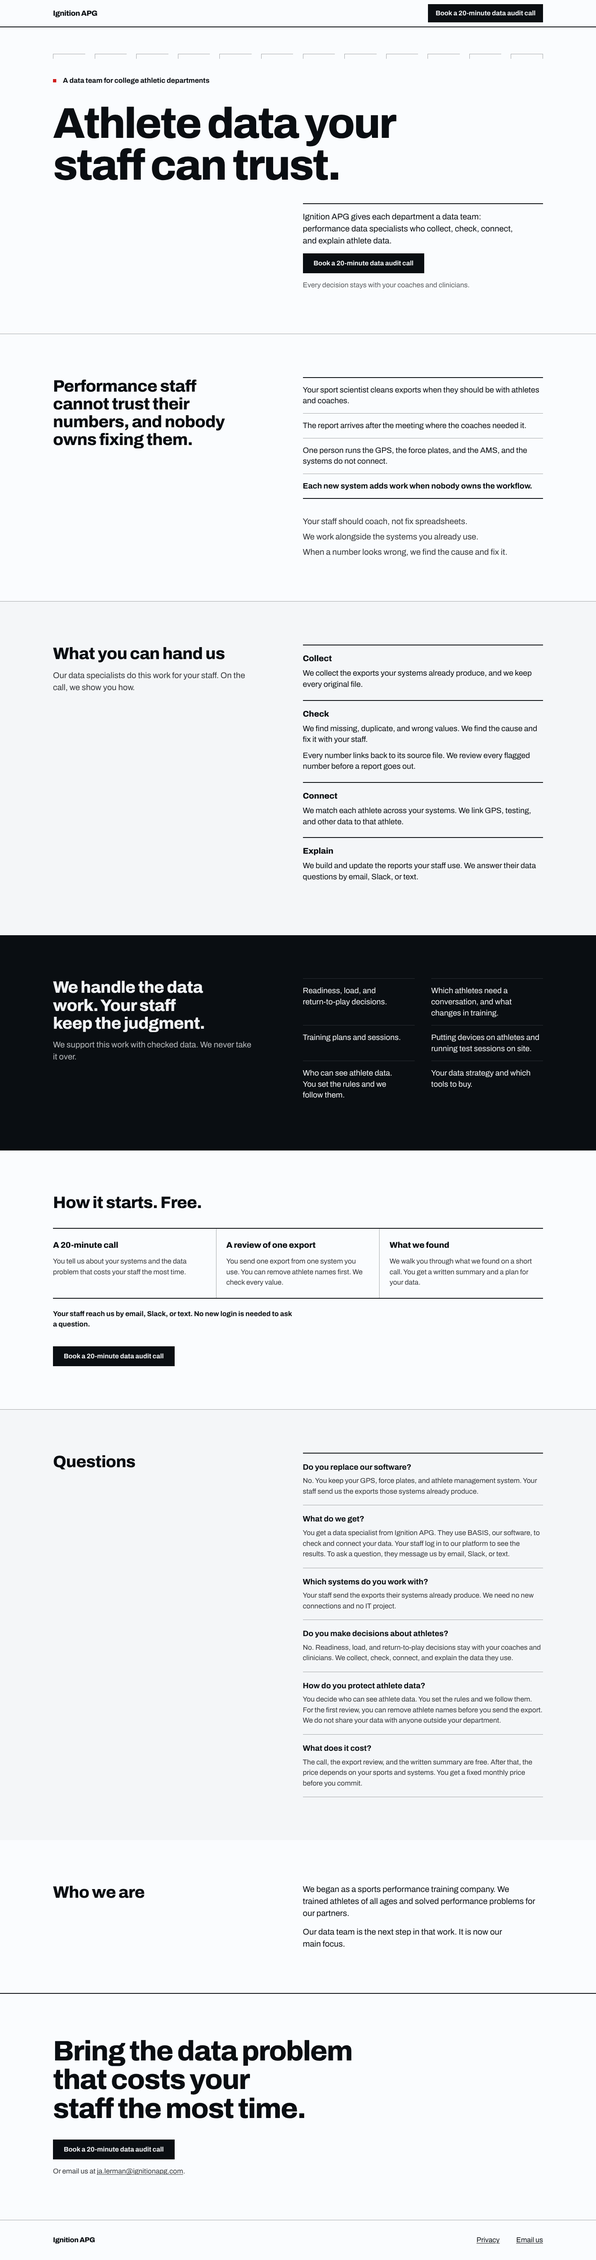
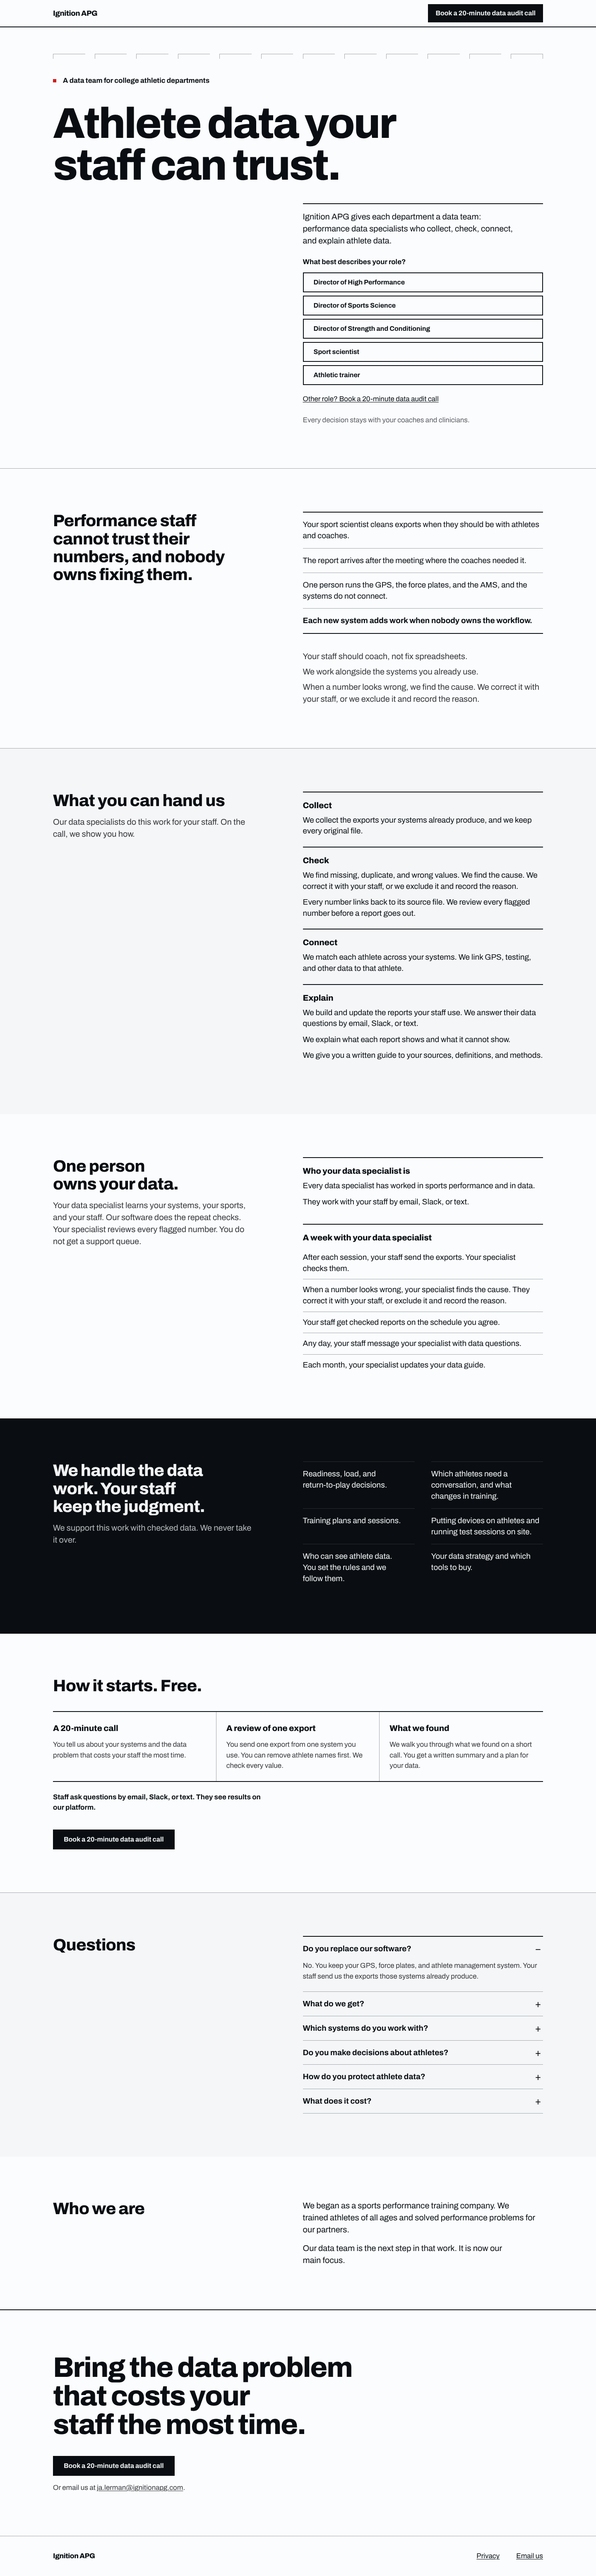
Specialist section, hero role picker, restored Explain items, approved fix wording, collapsible questions
Claude-Session: https://claude.ai/code/session_01X9BRkj4E1FyPfGCiP91Am8

diff --git a/src/content/site.ts b/src/content/site.ts
@@ -23,6 +23,19 @@ export const hero = {
   underButton: "Every decision stays with your coaches and clinicians.",
 };
 
+// Hero role picker (Jake, 2026-10-13). Each role opens Calendly with the role question prefilled (a1).
+export const rolePicker = {
+  prompt: "What best describes your role?",
+  roles: [
+    "Director of High Performance",
+    "Director of Sports Science",
+    "Director of Strength and Conditioning",
+    "Sport scientist",
+    "Athletic trainer",
+  ],
+  otherLink: "Other role? Book a 20-minute data audit call",
+};
+
 export const problem = {
   heading: "Performance staff cannot trust their numbers, and nobody owns fixing them.",
   symptoms: [
@@ -34,7 +47,7 @@ export const problem = {
   departmentMessage: [
     "Your staff should coach, not fix spreadsheets.",
     "We work alongside the systems you already use.",
-    "When a number looks wrong, we find the cause and fix it.",
+    "When a number looks wrong, we find the cause. We correct it with your staff, or we exclude it and record the reason.",
   ],
 };
 
@@ -49,7 +62,7 @@ export const handUs = {
     {
       verb: "Check",
       items: [
-        "We find missing, duplicate, and wrong values. We find the cause and fix it with your staff.",
+        "We find missing, duplicate, and wrong values. We find the cause. We correct it with your staff, or we exclude it and record the reason.",
         "Every number links back to its source file. We review every flagged number before a report goes out.",
       ],
     },
@@ -59,9 +72,36 @@ export const handUs = {
     },
     {
       verb: "Explain",
-      items: ["We build and update the reports your staff use. We answer their data questions by email, Slack, or text."],
+      items: [
+        "We build and update the reports your staff use. We answer their data questions by email, Slack, or text.",
+        "We explain what each report shows and what it cannot show.",
+        "We give you a written guide to your sources, definitions, and methods.",
+      ],
     },
   ],
+};
+
+// Data specialist section (Jake, 2026-10-13). A role, with no name, no photo, and no personal story.
+export const specialist = {
+  heading: "One person owns your data.",
+  text: "Your data specialist learns your systems, your sports, and your staff. Our software does the repeat checks. Your specialist reviews every flagged number. You do not get a support queue.",
+  who: {
+    heading: "Who your data specialist is",
+    items: [
+      "Every data specialist has worked in sports performance and in data.",
+      "They work with your staff by email, Slack, or text.",
+    ],
+  },
+  week: {
+    heading: "A week with your data specialist",
+    items: [
+      "After each session, your staff send the exports. Your specialist checks them.",
+      "When a number looks wrong, your specialist finds the cause. They correct it with your staff, or exclude it and record the reason.",
+      "Your staff get checked reports on the schedule you agree.",
+      "Any day, your staff message your specialist with data questions.",
+      "Each month, your specialist updates your data guide.",
+    ],
+  },
 };
 
 export const staysWithStaff = {

diff --git a/src/styles/global.css b/src/styles/global.css
@@ -69,6 +69,23 @@
   .link--inline { position: relative; }
   .link--inline::after { content: ""; position: absolute; inset: -0.875rem -0.25rem; }
 
+  /* Hero role picker: outlined choices that fill with ink on hover. */
+  .btn--choice { justify-content: flex-start; background: var(--color-paper); color: var(--color-ink); }
+  .btn--choice:hover { background: var(--color-ink); color: var(--color-on-ink); border-color: var(--color-ink); }
+  .btn--choice:active { background: var(--color-neutral); color: var(--color-on-ink); border-color: var(--color-neutral); }
+
+  /* A week with your data specialist: ordered in the HTML, no visible numerals. */
+  .week li { padding-block: 0.75rem; border-bottom: 1px solid var(--color-rule-2); }
+  .week li:last-child { border-bottom: 0; }
+
+  /* Questions: native details, closed on load, plus and minus marker, 56 px rows. */
+  .faq summary { list-style: none; cursor: pointer; display: flex; justify-content: space-between; align-items: center; gap: 1rem; min-height: 3.5rem; padding-block: 1rem; font-weight: 700; font-size: var(--text-item); line-height: 1.35; transition: color 160ms ease; }
+  .faq summary::-webkit-details-marker { display: none; }
+  .faq summary::after { content: "+"; flex: none; width: 1.5rem; text-align: center; font-weight: 400; font-size: 1.5rem; line-height: 1; }
+  .faq details[open] summary::after { content: "\2212"; }
+  .faq summary:hover { color: var(--color-neutral); }
+  .faq summary:active { color: var(--color-muted); }
+
   /* Small red square: the one marker shape on the page. */
   .marker { position: relative; padding-left: 1.5rem; }
   .marker::before { content: ""; position: absolute; left: 0; top: 0.55em; width: 0.5rem; height: 0.5rem; background: var(--color-accent); }

diff --git a/docs/MESSAGE.md b/docs/MESSAGE.md
@@ -1,12 +1,20 @@
 # Message sheet (approved)
 
-Version 4, approved by Jake at gate 1 on 2026-10-12. This is every word on the site, in page order. There is no design yet.
+Version 4, approved by Jake at gate 1 on 2026-10-12. Version 5 adds Jake's review changes of 2026-10-13. This is every word on the site, in page order. There is no design yet.
 
 How to read it:
 
 - The **Copy** column is what visitors will see.
 - Every slot you had to fill is now filled. The only placeholder left is the privacy date, which is set at launch.
 - What is left for you is at the bottom.
+
+## What changed in v5 (Jake, 2026-10-13)
+
+- Hero: a role picker replaces the single button. "What best describes your role?" with five role buttons, then the link "Other role? Book a 20-minute data audit call". Each role button opens Calendly with the role already filled in.
+- New section 3b, "One person owns your data.", about the data specialist. It is a role, with no name, no photo, and no personal story.
+- "Explain" gets back two confirmed items: rows 10 and 12.
+- Fixing wrong numbers now uses the approved wording in both places: "We find the cause. We correct it with your staff, or we exclude it and record the reason." The site never says we "fix" a value. BASIS never edits a value in place.
+- Questions open and close on click or tap. All are closed when the page loads. The answers do not change.
 
 ## What changed in v4
 
@@ -53,8 +61,16 @@ How to read it:
 | Label | A data team for college athletic departments |
 | Heading | Athlete data your staff can trust. |
 | Text | Ignition APG gives each department a data team: performance data specialists who collect, check, connect, and explain athlete data. |
-| Button | Book a 20-minute data audit call |
+| Prompt | What best describes your role? |
+| Role button | Director of High Performance |
+| Role button | Director of Sports Science |
+| Role button | Director of Strength and Conditioning |
+| Role button | Sport scientist |
+| Role button | Athletic trainer |
+| Link | Other role? Book a 20-minute data audit call |
 | Under the button | Every decision stays with your coaches and clinicians. |
+
+Each role button opens Calendly with that role filled in. The "Other role?" link opens Calendly with no role filled in. Setup: `docs/BOOKING.md`, "Role prefill".
 
 ## 2. The problem
 
@@ -65,7 +81,7 @@ How to read it:
 | Symptom 2 | The report arrives after the meeting where the coaches needed it. |
 | Symptom 3 | One person runs the GPS, the force plates, and the AMS, and the systems do not connect. |
 | Closing line | Each new system adds work when nobody owns the workflow. |
-| Department message | Your staff should coach, not fix spreadsheets. We work alongside the systems you already use. When a number looks wrong, we find the cause and fix it. |
+| Department message | Your staff should coach, not fix spreadsheets. We work alongside the systems you already use. When a number looks wrong, we find the cause. We correct it with your staff, or we exclude it and record the reason. |
 
 The symptoms appear as plain lines, with no names and no quote marks. That way they read as the problem, not as testimonials. The department message turns the page from the problem to the offer.
 
@@ -78,12 +94,32 @@ The symptoms appear as plain lines, with no names and no quote marks. That way t
 | Group | Collect |
 | Item | We collect the exports your systems already produce, and we keep every original file. |
 | Group | Check |
-| Item | We find missing, duplicate, and wrong values. We find the cause and fix it with your staff. |
+| Item | We find missing, duplicate, and wrong values. We find the cause. We correct it with your staff, or we exclude it and record the reason. |
 | Item | Every number links back to its source file. We review every flagged number before a report goes out. |
 | Group | Connect |
 | Item | We match each athlete across your systems. We link GPS, testing, and other data to that athlete. |
 | Group | Explain |
 | Item | We build and update the reports your staff use. We answer their data questions by email, Slack, or text. |
+| Item | We explain what each report shows and what it cannot show. |
+| Item | We give you a written guide to your sources, definitions, and methods. |
+
+## 3b. Your data specialist (Jake, 2026-10-13)
+
+| Element | Copy |
+|---|---|
+| Heading | One person owns your data. |
+| Text | Your data specialist learns your systems, your sports, and your staff. Our software does the repeat checks. Your specialist reviews every flagged number. You do not get a support queue. |
+| Subheading | Who your data specialist is |
+| Point | Every data specialist has worked in sports performance and in data. |
+| Point | They work with your staff by email, Slack, or text. |
+| Subheading | A week with your data specialist |
+| Week item | After each session, your staff send the exports. Your specialist checks them. |
+| Week item | When a number looks wrong, your specialist finds the cause. They correct it with your staff, or exclude it and record the reason. |
+| Week item | Your staff get checked reports on the schedule you agree. |
+| Week item | Any day, your staff message your specialist with data questions. |
+| Week item | Each month, your specialist updates your data guide. |
+
+A role, not a person: no name, no photo, no avatar, no icon. The week is an ordered list with no visible numbers.
 
 ## 4. What stays with your staff
 
@@ -133,7 +169,7 @@ None of these steps cost money. Step 3 makes no time promise, so "20-minute" sta
 | Question | What does it cost? |
 | Answer | The call, the export review, and the written summary are free. After that, the price depends on your sports and systems. You get a fixed monthly price before you commit. |
 
-All six answers are yours or approved by you. None names a compliance standard.
+All six answers are yours or approved by you. None names a compliance standard. Since 2026-10-13 each question opens and closes on click or tap, and all are closed when the page loads.
 
 ## 7. Who we are
 
@@ -212,10 +248,12 @@ This is for you, not for the page. Row numbers follow the table in `docs/BRIEF.m
 | Group | Line on the page | Confirmed rows it comes from |
 |---|---|---|
 | Collect | We collect the exports your systems already produce, and we keep every original file. | Row 1 (collect the exports). Row 2, first half (keep every original file). |
-| Check | We find missing, duplicate, and wrong values. We find the cause and fix it with your staff. | Row 3 (find missing, duplicate, and wrong values). Row 4, first half (find the cause, correct it with staff). |
+| Check | We find missing, duplicate, and wrong values. We find the cause. We correct it with your staff, or we exclude it and record the reason. | Row 3 (find missing, duplicate, and wrong values). Row 4, full wording (2026-10-13). |
 | Check | Every number links back to its source file. We review every flagged number before a report goes out. | Row 5, same wording. Back on the page in v3. |
 | Connect | We match each athlete across your systems. We link GPS, testing, and other data to that athlete. | Row 6 (match each athlete). Row 8 (link GPS, testing, and other data). |
 | Explain | We build and update the reports your staff use. We answer their data questions by email, Slack, or text. | Row 9 (build and update reports). Row 11 (answer data questions by email, Slack, or text). |
+| Explain | We explain what each report shows and what it cannot show. | Row 10, same wording. Restored 2026-10-13. |
+| Explain | We give you a written guide to your sources, definitions, and methods. | Row 12, same wording. Restored 2026-10-13. |
 
 The page has no response time, no custom reports, and no task IDs. BASIS appears once, in your answer to "What do we get?"
 
@@ -224,10 +262,7 @@ The page has no response time, no custom reports, and no task IDs. BASIS appears
 These confirmed items are true, but they are not on the page. They show how the data team works, so they make good material for your walkthrough.
 
 - **Collect.** We log what arrived and what is missing. (Row 2, second half)
-- **Check.** When we cannot correct a number, we exclude it and record the reason. (Row 4, second half)
 - **Connect.** We convert every value to the same units. We record each system's definitions, so different measures are never mixed. (Row 7)
-- **Explain.** We explain what each report shows and what it cannot show. (Row 10)
-- **Explain.** We give you a written guide to your sources, definitions, and methods. (Row 12)
 - **Now on the page.** "You can remove athlete names first" moved to step 2 and the data protection answer in v4.
 - **Where to start.** Hand us your most painful data problem first. The booking question asks for it, so you know it before the call.
 

diff --git a/docs/DESIGN.md b/docs/DESIGN.md
@@ -49,12 +49,14 @@ There is one accent. There are no gradients, no shadows, and no rounded corners.
 | Header | Sticky, paper background, 2 px ink rule below. Name on the left, booking button on the right. On phones the header button hides, because the hero button sits directly below. |
 | Button | Ink fill, on-ink text, 2 px ink border, square corners, 48 px tall (header button 44 px). Red on hover, neutral on press, red focus ring. The label never wraps. |
 | Text link | Ink, underlined, red underline on hover. |
-| Hero | Ruler, label with red square, display heading across columns 1 to 11, then lead text, button, and the under-button line in columns 7 to 12 under a 2 px ink rule. |
+| Hero | Ruler, label with red square, display heading across columns 1 to 11, then lead text, the role picker, and the under-button line in columns 7 to 12 under a 2 px ink rule. |
+| Role picker (hero, 2026-10-13) | The prompt in bold, then five full-width outlined choices (2 px ink border, paper fill, left-aligned label, 48 px tall) that fill with ink on hover. Then a text link for other roles. Each choice opens Calendly with the role prefilled. Labels stay on one line down to 320 px. |
 | Problem rows | Heading left. Symptoms as rows with hairlines on the right. The closing line in bold, between 2 px ink rules. The department message below it in neutral. |
 | Grouped list ("What you can hand us") | Heading and text left. Four groups on the right, each under a 2 px ink rule with the verb as a small heading. No markers. It mirrors the ink band, light then dark. |
+| Specialist section (2026-10-13) | Heading and text left. On the right, two groups under 2 px ink rules: "Who your data specialist is" (plain list) and "A week with your data specialist" (ordered list, hairline between rows, no visible numerals). No photos, avatars, faces, or icons. |
 | Ink band ("We handle the data work") | The one dark section. Heading left on ink, six items in two columns on the right, each item with a hairline above it. |
 | Step columns ("How it starts. Free.") | Three columns divided by vertical hairlines. Titles carry the order, with no numerals. The closing line sits under a rule. Then the booking button: the one mid-page button, so phone visitors can book at the moment they decide. Stacks to rows on phones. |
-| Questions | Heading left. On the right, every question with its answer open, rows divided by hairlines. A director came to check these answers, so none are hidden. |
+| Questions | Heading left. On the right, native `<details>` rows divided by hairlines, all closed on load (Jake, 2026-10-13). Each summary is at least 56 px tall with a "+" or "−" marker as text, the red focus ring, and hover and press styles. Answers stay in the page HTML. |
 | Who we are | Heading left, two short paragraphs right. |
 | Final call to action | A large section heading, the button, then the email line. |
 | Footer | Name, Privacy link, and Email us on one line, with a hairline above. It sits at the bottom of short pages. |

diff --git a/docs/STATUS.md b/docs/STATUS.md
@@ -104,6 +104,14 @@ Last updated: 2026-10-12
 
 ## Jake's decisions so far
 
+- 2026-10-13 (review of the preview; not a launch):
+  - New data specialist section after "What you can hand us". It is a role with no person.
+  - A hero role picker of five roles plus "Other role?", with Calendly role prefill through `a1`.
+  - "Explain" restores rows 10 and 12.
+  - The approved wording for wrong numbers is used everywhere, and the site never says we "fix" a value.
+  - Questions collapse with native details.
+  - Live address: the free Vercel address for now. Jake clicks merge on PR #1 himself. This session watches PR #1.
+
 - 2026-10-13 (gate 4 closed): Jake approved the audit and the new closing line for "How it starts": "Staff ask questions by email, Slack, or text. They see results on our platform."
 - 2026-10-13: Vercel project created (Hobby plan, Astro preset, build `npm run build`, output `dist`). The first deploy from `main` failed (no package.json on `main`), which is expected.
 
@@ -139,10 +147,16 @@ Last updated: 2026-10-12
 
 ## Waiting on Jake
 
-1. **Review the copy on the preview**, then approve it. The preview works: https://ignition-apg-website-git-claude-clever-526011-jlerm13s-projects.vercel.app/ (branch `claude/clever-ride-f3mrjh`; private, needs Vercel sign-in).
-2. **Decide the live address:** ignitionapg.com, a subdomain such as data.ignitionapg.com, or the free Vercel address for now.
-3. **Decide who publishes:** Claude merges after his approval, or Jake clicks merge.
-4. **Set up Calendly** with `docs/BOOKING.md`, then make one test booking (audit check 11).
+1. **Review the preview** on PR #1 (https://github.com/jlerm13/ignition-apg-website/pull/1). The branch preview is https://ignition-apg-website-git-claude-clever-526011-jlerm13s-projects.vercel.app/
+2. **Calendly role prefill:** follow `docs/BOOKING.md` step 2b.
+   - "What is your role?" must be the first added question and of type One line.
+   - Then test the `?a1=Sport%20scientist` link.
+3. **Two wording flags** (his words kept as written until he decides):
+   - "One person owns your data." could read as us owning athlete data. A possible alternative: "One person owns your data work."
+   - "Our software does the repeat checks." sits close to the rule against implying software works on its own.
+4. **Privacy line** (from earlier): change "We count visits and button clicks" to "We count visits", because the free plan counts visits only?
+5. **Set the Calendly redirect** and make one test booking (audit check 11).
+6. **When ready:** Jake clicks merge on PR #1 to publish. Never merge for him.
 
 ## The stages
 

diff --git a/docs/BRIEF.md b/docs/BRIEF.md
@@ -57,6 +57,18 @@ Jake filled every open slot. The words are in `docs/MESSAGE.md` v4. New facts:
 1. The closing line of "How it starts" is now: "Staff ask questions by email, Slack, or text. They see results on our platform." It replaces the original "Your staff reach us by email, Slack, or text. No new login is needed to ask a question." The old line could read as a contradiction of "Your staff log in to our platform to see the results."
 2. Jake approved the Stage 4 audit.
 
+## Changes from Jake, 2026-10-13 (review of the preview)
+
+1. **Data specialist section** (option A: a role, with no name, no photo, and no personal story; company first stays; the only number stays "20-minute"). It sits after "What you can hand us" and before "We handle the data work. Your staff keep the judgment." The words are in `docs/MESSAGE.md` section 3b.
+2. **Role picker in the hero.**
+   - The prompt "What best describes your role?" with five buttons: Director of High Performance, Director of Sports Science, Director of Strength and Conditioning, Sport scientist, Athletic trainer.
+   - Then the link "Other role? Book a 20-minute data audit call".
+   - Each button opens Calendly with the role filled in (`a1`). "Every decision stays with your coaches and clinicians." stays under the picker.
+   - The `cta_click` event carries section "hero" and the role. Every other booking button stays as it is.
+3. **"Explain" restores rows 10 and 12:** "We explain what each report shows and what it cannot show." and "We give you a written guide to your sources, definitions, and methods."
+4. **Approved wording for wrong numbers, in both places:** "We find the cause. We correct it with your staff, or we exclude it and record the reason." Nowhere on the site may we say we "fix" a value. BASIS never edits a value in place.
+5. **Questions open and close on click or tap,** using native details and summary. All are closed when the page loads. The answers do not change.
+
 ## 3.1 Job of the site
 Get a qualified college performance leader to book a 20-minute call with Jake.
 

diff --git a/docs/BOOKING.md b/docs/BOOKING.md
@@ -29,6 +29,31 @@ Calendly always asks for **Name** and **Email**. Add three more questions. Each 
 
 The last question is the one you prepare the call from. It is also the "most painful problem first" idea, so you know the problem before you talk.
 
+## 2b. Role prefill (added 2026-10-13)
+
+The hero now asks "What best describes your role?" and shows five buttons. Each button opens your Calendly page with the role already typed into the role question. Calendly does this from the link: `?a1=` fills the **first question you added** to the booking form. Name and email do not count, because Calendly adds those itself.
+
+For this to work, check two things in Calendly, under the event's **Booking form** (or **Invitee Questions**):
+
+1. **"What is your role?" must be the first question you added**, directly under Name and Email. If it is not first, drag it to the top. If you want it somewhere else, tell me its position (second is `a2`, third is `a3`) and I will change the links.
+2. **Its answer type must be "One line"**, as step 2 above says. With One line, any text fills in. If you changed it to multiple choice (radio buttons or a drop-down), the five options must match the button text exactly, letter for letter:
+   - Director of High Performance
+   - Director of Sports Science
+   - Director of Strength and Conditioning
+   - Sport scientist
+   - Athletic trainer
+
+   One line is simpler. With it, "Other role?" visitors can type anything.
+
+**Test it** (I cannot open calendly.com from my environment, so this is yours):
+
+1. Open this link: https://calendly.com/ja-lerman-ignitionapg/intro-call?a1=Sport%20scientist
+2. Pick any time.
+3. On the form, "What is your role?" should already say **Sport scientist**. Visitors can still change it.
+4. Close the page without booking.
+
+If the role box is empty, tell me what the question's position and type are, and I will fix the links.
+
 ## 3. Send people to the thank-you page after they book
 
 The site counts a booking when someone lands on its thank-you page. Calendly must send them there.
